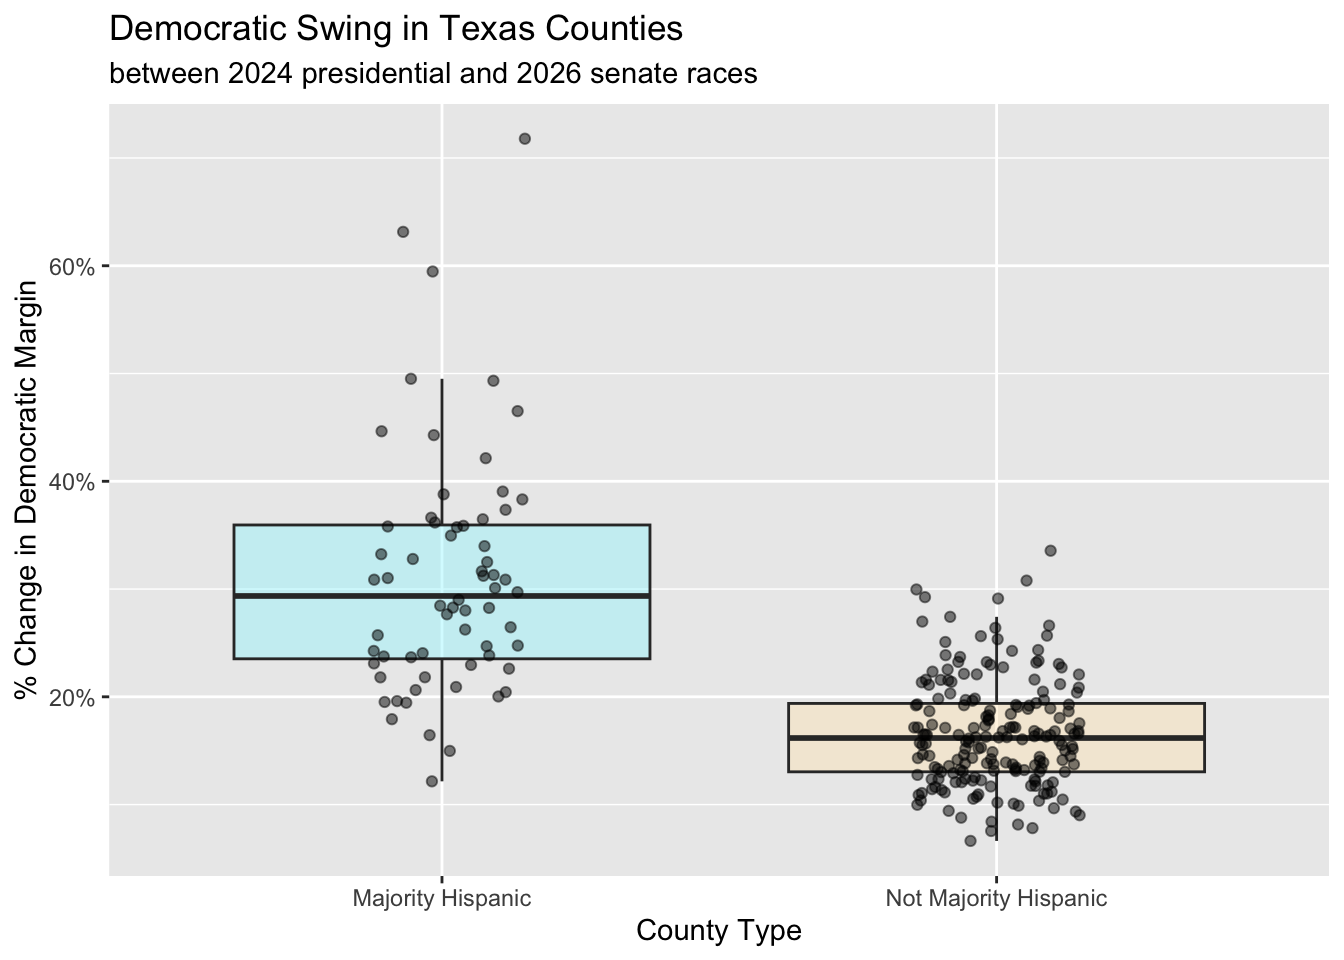
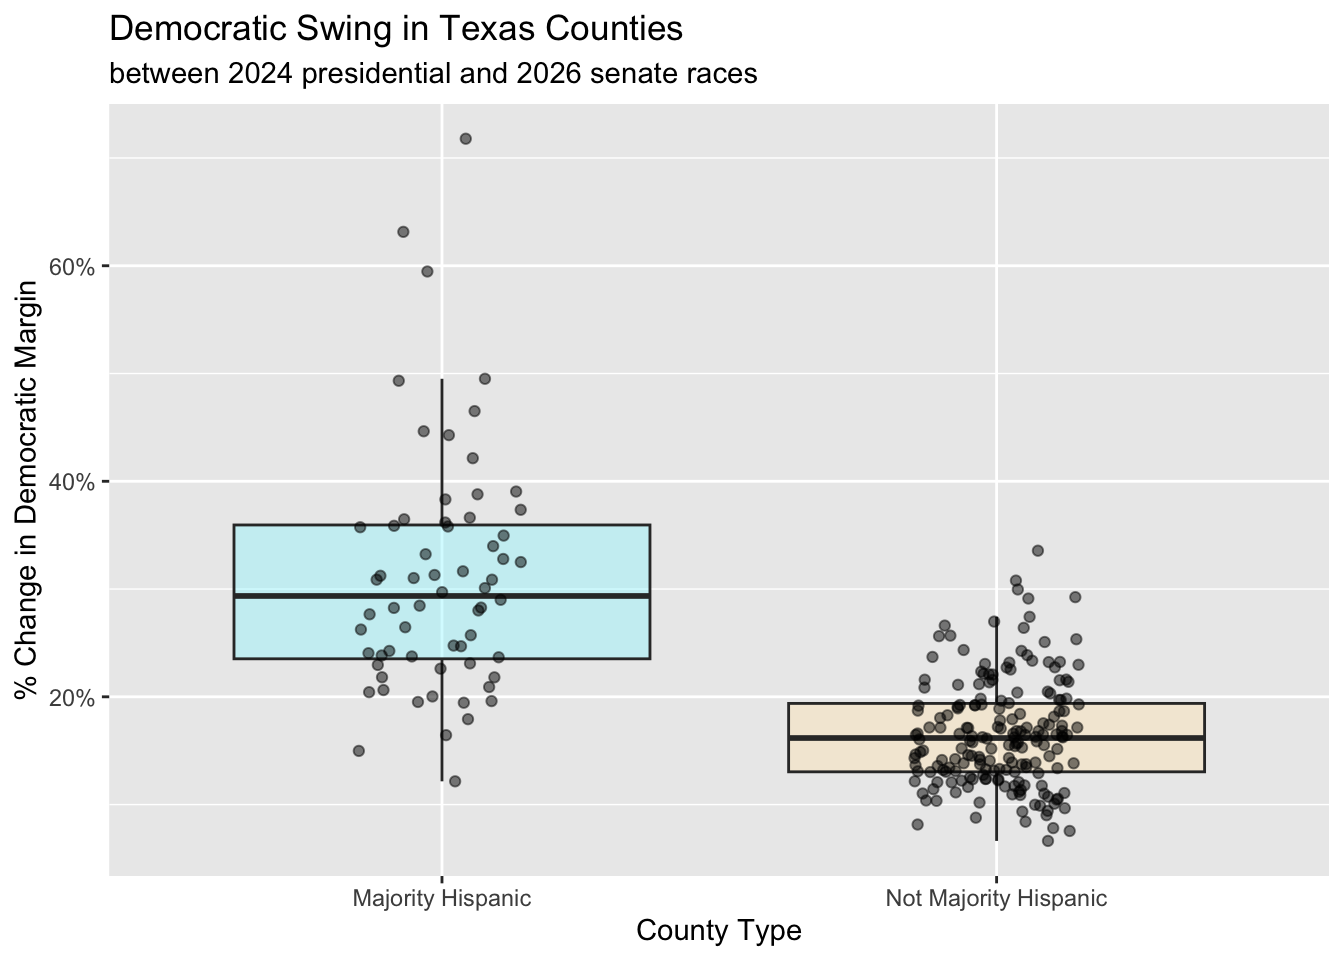
analysis completed

diff --git a/docs/tx2026.html b/docs/tx2026.html
@@ -178,9 +178,10 @@ pre > code.sourceCode > span > a:first-child::before { text-decoration: underlin
   <ul>
   <li><a href="#the-data" id="toc-the-data" class="nav-link active" data-scroll-target="#the-data">The Data</a></li>
   <li><a href="#introduction" id="toc-introduction" class="nav-link" data-scroll-target="#introduction">Introduction</a></li>
-  <li><a href="#title" id="toc-title" class="nav-link" data-scroll-target="#title">TITLE</a></li>
+  <li><a href="#exploring-the-data" id="toc-exploring-the-data" class="nav-link" data-scroll-target="#exploring-the-data">Exploring the Data</a></li>
   <li><a href="#hypothesis-and-simulation" id="toc-hypothesis-and-simulation" class="nav-link" data-scroll-target="#hypothesis-and-simulation">Hypothesis and Simulation</a></li>
   <li><a href="#conclusion" id="toc-conclusion" class="nav-link" data-scroll-target="#conclusion">Conclusion</a></li>
+  <li><a href="#summary" id="toc-summary" class="nav-link" data-scroll-target="#summary">Summary</a></li>
   </ul>
 </nav>
     </div>
@@ -305,12 +306,12 @@ pre > code.sourceCode > span > a:first-child::before { text-decoration: underlin
 </section>
 <section id="introduction" class="level2">
 <h2 class="anchored" data-anchor-id="introduction">Introduction</h2>
-<p>In the November 3rd general election, Democrats flipped several Republican-held Senate seats across the country, including in Texas, where James Talarico won the Senate race. This outcome seemed to have been partially due to the state’s heavily Hispanic southern border region, where many counties shifted toward Democrats compared to the 2024 presidential election, when the state largely voted for Trump. Overall, Hispanic residents make up a large share of the Texas population, with 64 of the state’s 254 counties being majority Hispanic.</p>
-<p>In this simulation study, I will examine whether majority-Hispanic counties swung toward Democrats more than other Texas counties between the 2024 presidential race and the 2026 Senate race. I measure each county’s swing as the change in the Democratic margin between the two races, then use a permutation test, shuffling which counties are labeled “majority Hispanic,” to see whether the observed difference in median swing is larger than we would expect if county type had nothing to do with it. The answer helps show whether the Democratic gains in Texas were concentrated in majority-Hispanic counties or were spread more evenly across the state.</p>
+<p>In the November 3rd general election, Democrats flipped several Republican-held Senate seats across the country, including in Texas, where James Talarico won the Senate race. This outcome seemed to have been partially due to the state’s heavily Hispanic southern border region, where many counties shifted their votes toward Democrats compared to the 2024 presidential election, when the state largely voted for Trump. Overall, Hispanic residents make up a large share of the Texas population, with 64 of the state’s 254 counties being majority Hispanic.</p>
+<p>In this simulation study, I examine whether majority-Hispanic counties swung toward Democrats more than other Texas counties between the 2024 presidential race and the 2026 Senate race. I measure each county’s swing as the change in the Democratic margin between the two races, then use a permutation test, shuffling which counties are labeled “majority Hispanic,” to see whether the observed difference in median swing is larger than we would expect if county type had nothing to do with it. The answer helps show whether the Democratic gains in Texas were concentrated in majority-Hispanic counties or spread more evenly across the state.</p>
 </section>
-<section id="title" class="level2">
-<h2 class="anchored" data-anchor-id="title">TITLE</h2>
-<p>Exploring the data, we can calculate the swing toward Democrats from the 2024 Presidential election to the 2026 Senate election. A positive swing means more Democratic votes.</p>
+<section id="exploring-the-data" class="level2">
+<h2 class="anchored" data-anchor-id="exploring-the-data">Exploring the Data</h2>
+<p>We can first calculate the swing toward Democrats from the 2024 Presidential election to the 2026 Senate election. A positive swing means more Democratic votes.</p>
 <div class="cell">
 <details class="code-fold">
 <summary>Code</summary>
@@ -327,7 +328,7 @@ pre > code.sourceCode > span > a:first-child::before { text-decoration: underlin
 2 FALSE                0.162     0.166   190</code></pre>
 </div>
 </div>
-<p>While both majority hispanic and non-majority hispanic counties swung towards the Democrats in the 2026 Senate election, the 64 majority hispanic counties swung more extremely, at almost double the rate than non-majority counties in both a median and average swing.</p>
+<p>While both majority-hispanic and other counties swung towards the Democrats in the 2026 Senate race, the 64 majority hispanic counties swung more extremely, at almost double the rate than non-majority counties in both a median and average swing.</p>
 <div class="cell">
 <details class="code-fold">
 <summary>Code</summary>
@@ -352,7 +353,7 @@ pre > code.sourceCode > span > a:first-child::before { text-decoration: underlin
 10 CULBERSON   -0.169     0.221  0.390 TRUE         </code></pre>
 </div>
 </div>
-<p>Arranging the data by counties with the greatest swings, we can see that among the top 10 counties, all are majority hispanic and all are either on or near the southern border.</p>
+<p>Arranging the data by counties with the greatest swings, we can see that among the top 10 counties, all are majority hispanic and all are either on or near the southern border. Starr County’s swing, about 72 percentage points, is the largest.</p>
 <div class="cell">
 <details class="code-fold">
 <summary>Code</summary>
@@ -378,12 +379,13 @@ pre > code.sourceCode > span > a:first-child::before { text-decoration: underlin
 </div>
 </div>
 </div>
-<p>When plotted, the original data shows that the spread of changes in democratic margins is much greater in majority hispanic than non-majority hispanic counties. The differences between the two types of counties becomes more clear, with the median of the majoirty hispanic counties being higher as calculated earlier, and with a</p>
+<p>The boxplot shows that the each group’s centers differ substantially: the median swing is almost 30 percentage points for majority-Hispanic counties and only around 15 percentage points for non-majority-Hispanic counties. The spread differs as well, with majority-Hispanic counties having almost twice as great of a spread as non-Hispanic-majority counties. The plot also makes it clear that each of the 254 counties swung towards Democrats from the 2024 to 2026 election, so the difference lies in <em>how much</em> the counties changed, not the direction.</p>
 </section>
 <section id="hypothesis-and-simulation" class="level2">
 <h2 class="anchored" data-anchor-id="hypothesis-and-simulation">Hypothesis and Simulation</h2>
-<p>Outcome: Democratic margin in 2026 Senate minus Democratic margin in 2024 presidential, by county Grouping variable: majority-Hispanic counties (&gt;50% hisp per Census ACS) vs.&nbsp;not Test statistic: difference in median swing between groups</p>
-<p>The null hypothesis in my simulation is that the group label of Hispanic or Not hispanic for each county is unrelated to the swing of votes in the 2026 Midterm Election.</p>
+<p><strong>Null Hypothesis</strong> A county’s label of majority Hispanic or not is unrelated to its swing between the 2024 presidential race and the 2026 Senate race, and any diffrence in median swing is due to random chance.</p>
+<p><strong>Alternative Hypothesis</strong> The median swing from 2024 to 2026 differs between majority-Hispanic and non-majority-Hispanic counties.</p>
+<p><strong>Test Statistic</strong> The median swing of majority-Hispanic counties minus the median swing of other counties.</p>
 <div class="cell">
 <details class="code-fold">
 <summary>Code</summary>
@@ -398,6 +400,9 @@ pre > code.sourceCode > span > a:first-child::before { text-decoration: underlin
 <div class="cell-output cell-output-stdout">
 <pre><code>[1] 0.131809</code></pre>
 </div>
+</div>
+<p>The observed difference (obs_diff) is the difference in median swing between majority-Hispanic counties and all other counties in the <em>real data</em>, about 0.13, or 13 percentage points. This percentage serves as the benchmark for comparison against the differences produced when shuffling the county labels to see whether a gap this large could plausibly happen by chance.</p>
+<div class="cell">
 <details class="code-fold">
 <summary>Code</summary>
 <div class="code-copy-outer-scaffold"><div class="sourceCode cell-code" id="cb12"><pre class="sourceCode r code-with-copy"><code class="sourceCode r"><span id="cb12-1"><a href="#cb12-1" aria-hidden="true" tabindex="-1"></a>random_diff <span class="ot">&lt;-</span> <span class="cf">function</span>(rep, data) {</span>
@@ -412,49 +417,38 @@ pre > code.sourceCode > span > a:first-child::before { text-decoration: underlin
 <div class="cell-output cell-output-stdout">
 <pre><code>[1] 0</code></pre>
 </div>
+</div>
+<p>My function <code>random_diff()</code> simulates a world where the null is true. The function maintains each county’s real swing and the original number of majority Hispanic and other counties, then randomly reassigns the “majority Hispanic” label across the 254 counties. It then recomputes the test statistic. Using <code>map_dbl()</code>, this process is repeated 5,000 times, giving a distribution of differences we would see by chance alone.</p>
+<div class="cell">
 <details class="code-fold">
 <summary>Code</summary>
 <div class="code-copy-outer-scaffold"><div class="sourceCode cell-code" id="cb14"><pre class="sourceCode r code-with-copy"><code class="sourceCode r"><span id="cb14-1"><a href="#cb14-1" aria-hidden="true" tabindex="-1"></a>null_dist <span class="sc">|&gt;</span> </span>
 <span id="cb14-2"><a href="#cb14-2" aria-hidden="true" tabindex="-1"></a>    <span class="fu">data.frame</span>() <span class="sc">|&gt;</span> </span>
 <span id="cb14-3"><a href="#cb14-3" aria-hidden="true" tabindex="-1"></a>    <span class="fu">ggplot</span>(<span class="fu">aes</span>(<span class="at">x =</span> null_dist)) <span class="sc">+</span></span>
-<span id="cb14-4"><a href="#cb14-4" aria-hidden="true" tabindex="-1"></a>    <span class="fu">geom_histogram</span>(<span class="at">binwidth =</span> <span class="fl">0.002</span>) <span class="sc">+</span></span>
+<span id="cb14-4"><a href="#cb14-4" aria-hidden="true" tabindex="-1"></a>    <span class="fu">geom_histogram</span>(<span class="at">binwidth =</span> <span class="fl">0.004</span>, <span class="at">fill =</span> <span class="st">"antiquewhite4"</span>, <span class="at">color =</span> <span class="st">"white"</span>) <span class="sc">+</span></span>
 <span id="cb14-5"><a href="#cb14-5" aria-hidden="true" tabindex="-1"></a>    <span class="fu">geom_vline</span>(<span class="at">xintercept =</span> obs_diff, <span class="at">color =</span> <span class="st">"red"</span>) <span class="sc">+</span></span>
-<span id="cb14-6"><a href="#cb14-6" aria-hidden="true" tabindex="-1"></a>    <span class="fu">labs</span>(<span class="at">x =</span> <span class="st">"Difference in Median Swing (majority Hispanic - non-majority)"</span>, </span>
+<span id="cb14-6"><a href="#cb14-6" aria-hidden="true" tabindex="-1"></a>    <span class="fu">labs</span>(<span class="at">x =</span> <span class="st">"Difference in Median Swing (maj. Hisp. - non-maj. Hisp.)"</span>, </span>
 <span id="cb14-7"><a href="#cb14-7" aria-hidden="true" tabindex="-1"></a>        <span class="at">y =</span> <span class="st">"Number of Simulated Shuffles"</span>,</span>
 <span id="cb14-8"><a href="#cb14-8" aria-hidden="true" tabindex="-1"></a>        <span class="at">title =</span> <span class="st">"Sampling distribution when null hypothesis is true"</span>)</span></code></pre></div><button title="Copy to Clipboard" class="code-copy-button"><i class="bi"></i></button></div>
 </details>
 <div class="cell-output-display">
 <div>
 <figure class="figure">
-<p><img src="tx2026_files/figure-html/unnamed-chunk-8-1.png" class="img-fluid figure-img" width="672"></p>
+<p><img src="tx2026_files/figure-html/unnamed-chunk-10-1.png" class="img-fluid figure-img" width="672"></p>
 </figure>
 </div>
 </div>
 </div>
-<div class="cell">
-<details class="code-fold">
-<summary>Code</summary>
-<div class="code-copy-outer-scaffold"><div class="sourceCode cell-code" id="cb15"><pre class="sourceCode r code-with-copy"><code class="sourceCode r"><span id="cb15-1"><a href="#cb15-1" aria-hidden="true" tabindex="-1"></a><span class="fu">ggplot</span>(<span class="fu">tibble</span>(<span class="at">diff =</span> null_dist), <span class="fu">aes</span>(<span class="at">x =</span> diff)) <span class="sc">+</span></span>
-<span id="cb15-2"><a href="#cb15-2" aria-hidden="true" tabindex="-1"></a>  <span class="fu">geom_histogram</span>(<span class="at">bins =</span> <span class="dv">40</span>, <span class="at">fill =</span> <span class="st">"grey70"</span>, <span class="at">color =</span> <span class="st">"white"</span>) <span class="sc">+</span></span>
-<span id="cb15-3"><a href="#cb15-3" aria-hidden="true" tabindex="-1"></a>  <span class="fu">geom_vline</span>(<span class="at">xintercept =</span> obs_diff, <span class="at">color =</span> <span class="st">"red"</span>, <span class="at">linewidth =</span> <span class="dv">1</span>) <span class="sc">+</span></span>
-<span id="cb15-4"><a href="#cb15-4" aria-hidden="true" tabindex="-1"></a>  <span class="fu">labs</span>(<span class="at">title =</span> <span class="st">"Differences in median swing when county labels are shuffled"</span>,</span>
-<span id="cb15-5"><a href="#cb15-5" aria-hidden="true" tabindex="-1"></a>       <span class="at">x =</span> <span class="st">"Difference in median swing (majority Hispanic minus other)"</span>,</span>
-<span id="cb15-6"><a href="#cb15-6" aria-hidden="true" tabindex="-1"></a>       <span class="at">y =</span> <span class="st">"Number of shuffles"</span>)</span></code></pre></div><button title="Copy to Clipboard" class="code-copy-button"><i class="bi"></i></button></div>
-</details>
-<div class="cell-output-display">
-<div>
-<figure class="figure">
-<p><img src="tx2026_files/figure-html/unnamed-chunk-9-1.png" class="img-fluid figure-img" width="672"></p>
-</figure>
-</div>
-</div>
-</div>
-<p>a description of what insights can be gained from your plot(s) / results//describing each of your plots or tables.<br>
-That is, tell the reader what they see when they look at the plot.</p>
+<p>This histogram shows the distribution of the 5,000 shuffled differences in median swing under the null hypothesis. The distribution is centered around 0.00 and nearly all values fall between roughly -0.05 and 0.05. The red line demarcates the real observed difference under the alternative hypothesis at about 0.13, which lies far beyond every shuffled difference. The p-value is the proportion of simulated differences whos absolute value is at least as large as the observed difference, therefore telling us how often chance alone would produce the observed value. The p-value computed here is close to 0, therefore p-value &lt; 0.05.</p>
 </section>
 <section id="conclusion" class="level2">
 <h2 class="anchored" data-anchor-id="conclusion">Conclusion</h2>
-<p>end with a description of what you did (3-4 sentences).guide the reader through your analysis.</p>
+<p>The observed difference in median swing, about 13 percentage points, is much larger than any difference produced by shuffling the county labels. The p-value at near-zero is far below 0.05, meaning we can reject the null hypothesis and conclude that there is strong evidence that majority-Hispanic Texas counties swung toward Democrats by more than other counties between the 2024 presidential race and the 2026 Senate race.</p>
+<p>While this test produces significant results, there are a few limits to this simulation. There could be other differences between majority-Hispanic and other counties apart from ethnicity that played a role in their votes and the data is county-level rather than individual-level, so we don’t know how each Hispanic voter voted. In addition, votes in the <em>presidential</em> race in 2024 is being compared to votes in the 2026 <em>senate</em> race, so there may be some variation based on differences in candidates. Also, the 50% cutoff to decide “majority Hispanic” is somewhat of an arbitrary choice and could impact the results.</p>
+</section>
+<section id="summary" class="level2">
+<h2 class="anchored" data-anchor-id="summary">Summary</h2>
+<p>I compared the 2024-to-2026 Democratic swing in majority-Hispanic and other Texas counties using county-level election and Census data. In the original data, majority-Hispanic counties had a median swing about 13 percentage points larger. In the simulation, a function shuffled the county labels 5,000 times, finding that no shuffle produced a difference as large as the observed difference from the original data.</p>
 
 
 </section>
